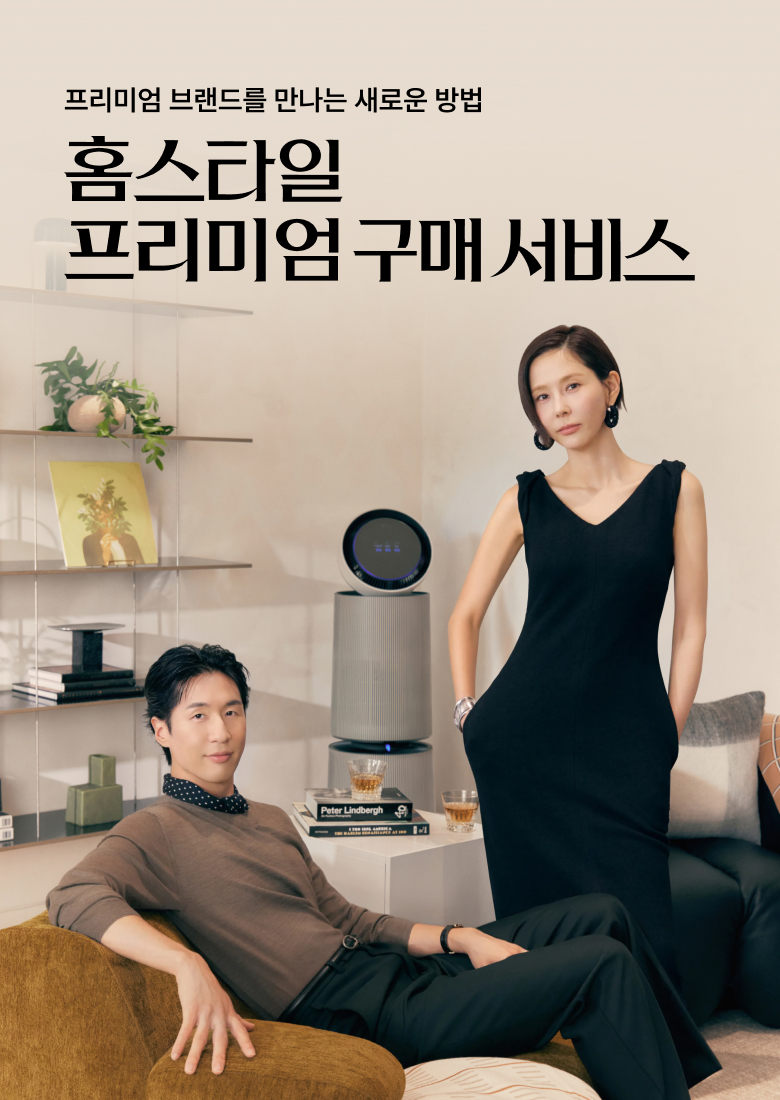
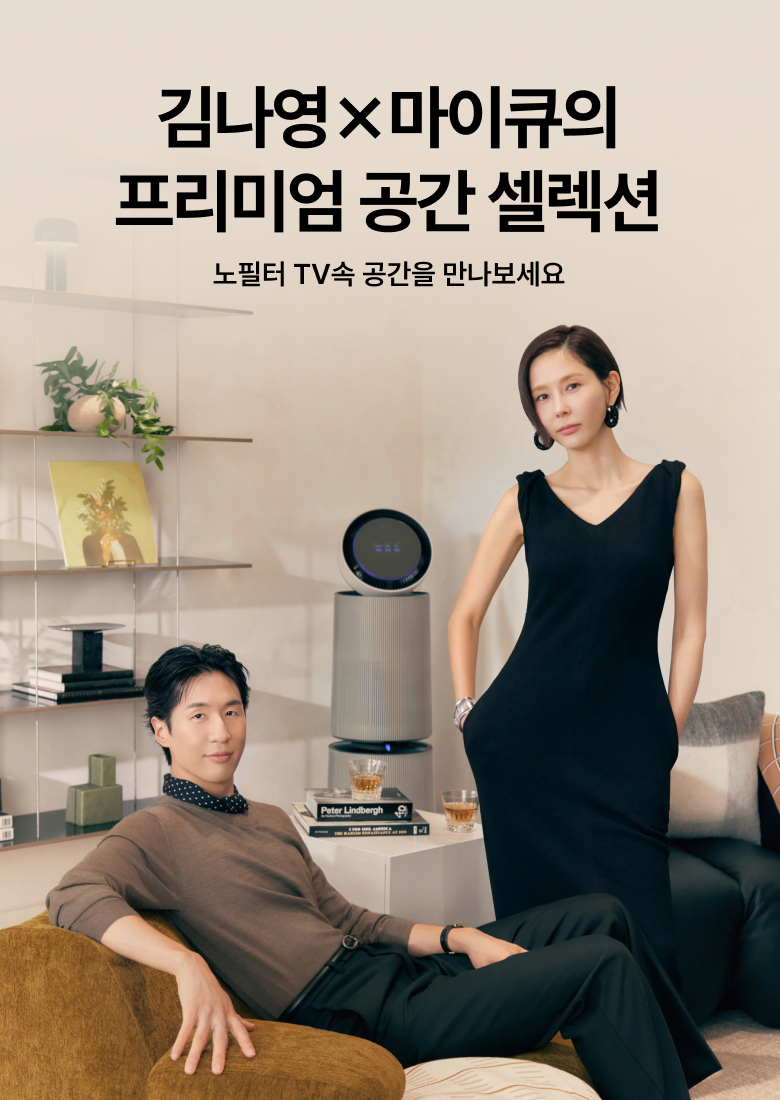
26.11.25 kb

Changed region(s): [[0.0923, 0.0618, 0.8923, 0.2782]]

diff --git a/exhibition/only_mo_monthly_home_set/premium_benefits_261124.html b/exhibition/only_mo_monthly_home_set/premium_benefits_261124.html
@@ -34,7 +34,7 @@
     <section id="benefit" class="bg_gray pd_b">
       <div class="layout_inner">
         <div class="home_set_tit">
-          <h2>책임지는 서비스 모음</h2>
+          <h2>프리미엄 구매 서비스 리뷰 이벤트</h2>
           <p>한눈에 확인하는 프리미엄 혜택</p>
         </div>
         <div class="benefit_list ty_col3">
@@ -170,14 +170,14 @@
     <section id="review_event" class="bg_gray pd_b">
       <div class="layout_inner" id="community">
         <div class="home_set_tit">
-          <h2>책임지는 서비스 리뷰 이벤트</h2>
-          <p>상품 구매 후 리뷰 작성 시 네이버페이 포인트 10만원</p>
+          <h2>프리미엄 구매 서비스 리뷰 이벤트</h2>
+          <p>상품 구매 후 리뷰 작성 시 네이버페이 포인트 5만원</p>
         </div>
         <img
           src="https://www.lge.co.kr/home_style_pages/2026/03/only_mo_monthly_home_set/src/images/premium_benefits/review_event.png"
           alt="" class="review_event_img">
         <p>행사 기간 프리미엄 구매 서비스 상품 구매 후 리뷰 작성 시 <br>
-          네이버페이 포인트 <strong>10만원</strong>을 드립니다.</p>
+          네이버페이 포인트 <strong>5만원</strong>을 드립니다.</p>
         <a href="https://homestyle.lge.co.kr/event/detail?eventId=E261000059" class="home_set_btn ty_black">리뷰 이벤트 바로
           가기<img src="https://www.lge.co.kr/home_style_pages/2026/03/only_mo_monthly_home_set/src/images/arr.svg" alt=""
             class="arr"></a>
